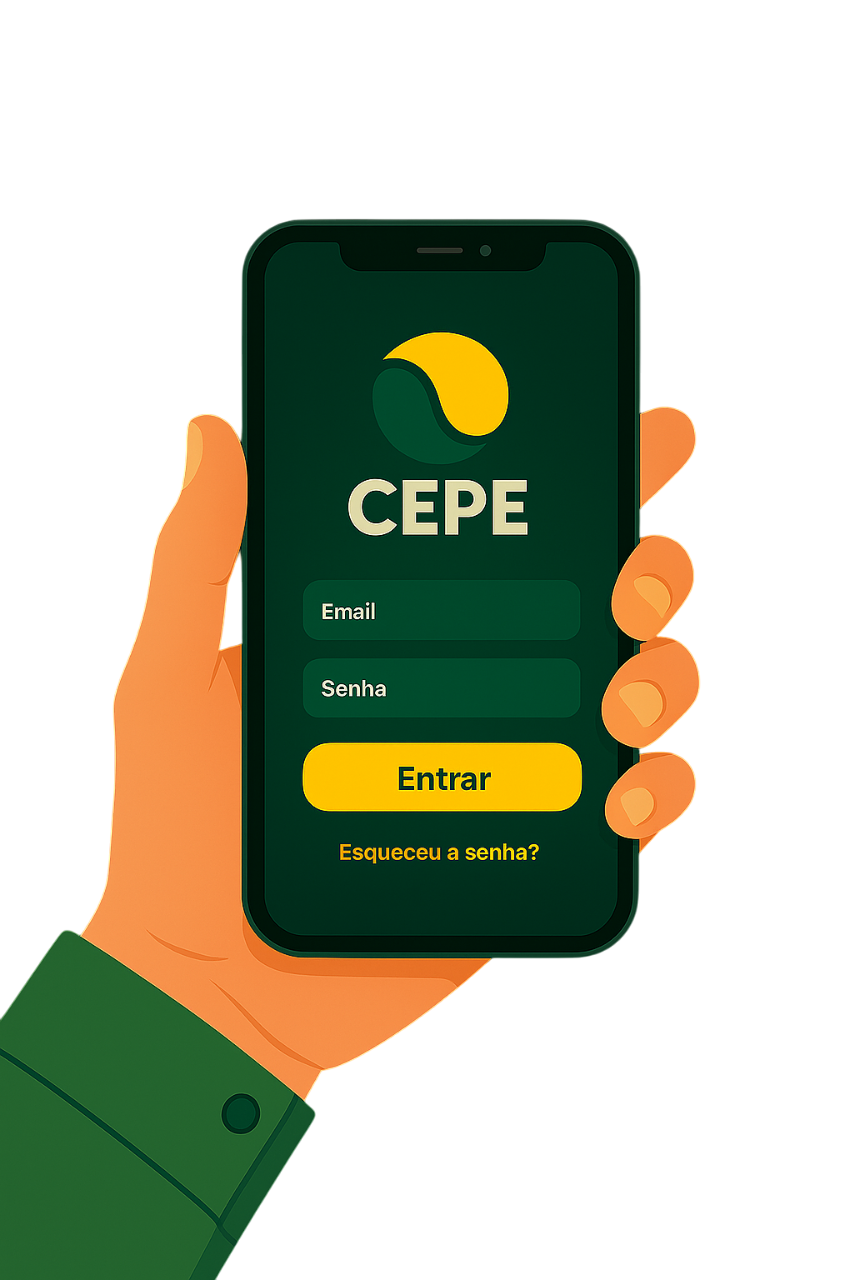
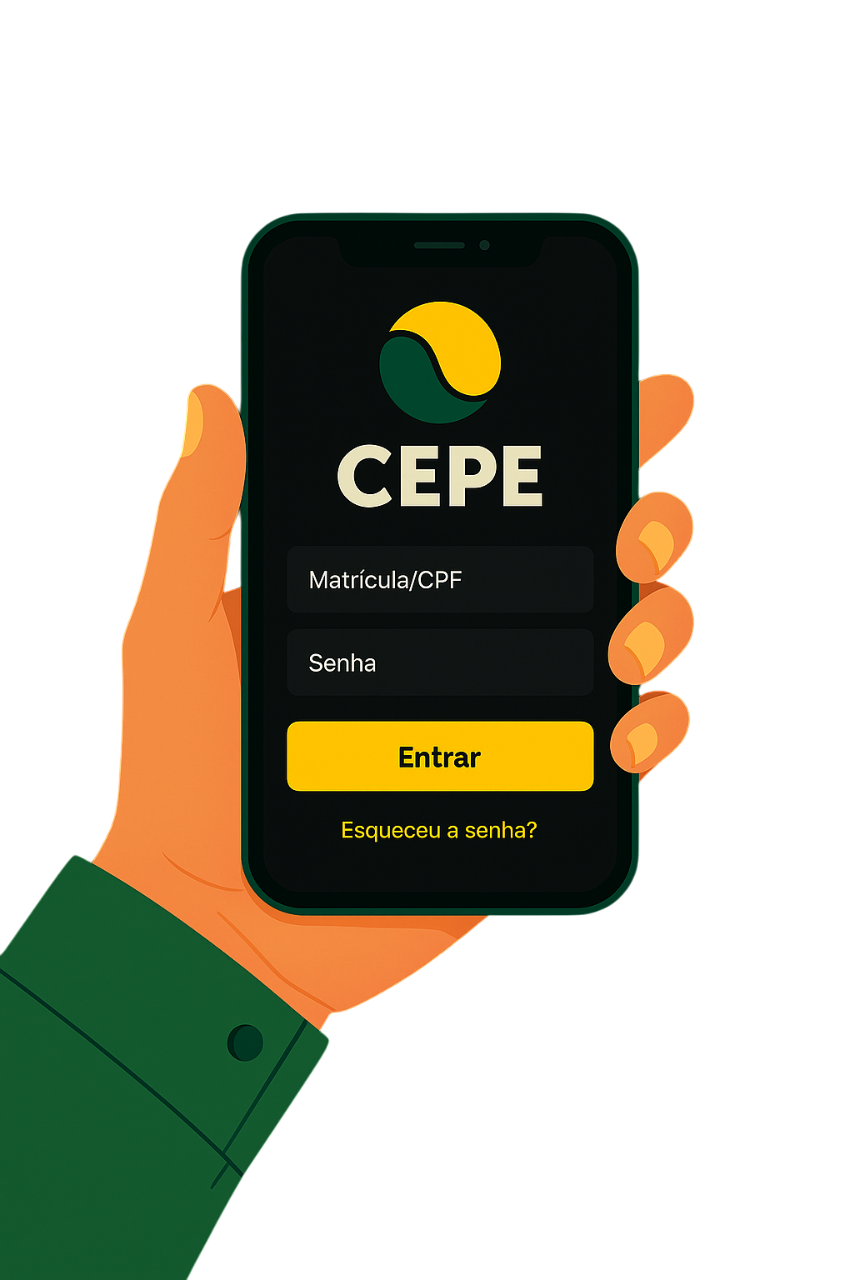
Started Login Page

diff --git a/CepeRioApp/CepeRioApp/Views/OnBoardingView.xaml b/CepeRioApp/CepeRioApp/Views/OnBoardingView.xaml
@@ -8,18 +8,29 @@
     xmlns:viewmodel="clr-namespace:CepeRioApp.ViewModels"
     Title="OnBoardingView"
     x:DataType="viewmodel:OnBoardingViewModel"
-    BackgroundColor="#1e1e1e">
+    BackgroundColor="#1e1e1e"
+    Shell.NavBarIsVisible="False">
 
     <ContentPage.Behaviors>
         <toolkit:StatusBarBehavior StatusBarColor="#080808" />
     </ContentPage.Behaviors>
 
     <Grid RowDefinitions="*, 180">
-        <Path Fill="#151515">
-            <Path.Data>
-                <RoundRectangleGeometry CornerRadius="0, 0, 130, 130" Rect="0, 0, 400, 400" />
-            </Path.Data>
-        </Path>
+        <Border
+            Grid.ColumnSpan="2"
+            BackgroundColor="#151515"
+            HeightRequest="380"
+            Stroke="Transparent"
+            StrokeShape="RoundRectangle 0, 0, 110, 110"
+            VerticalOptions="Start">
+
+            <!--<Border.Background>
+                <LinearGradientBrush StartPoint="1, 0" EndPoint="0, 1">
+                    <GradientStop Offset="0.1" Color="#fcc615" />
+                    <GradientStop Offset="3.0" Color="#006f5d" />
+                </LinearGradientBrush>
+            </Border.Background>-->
+        </Border>
 
         <Grid
             ColumnDefinitions="*, *"
@@ -43,7 +54,9 @@
         </Grid>
 
         <CarouselView
-            x:Name="myCarousel"
+            x:Name="OnBoardingCarousel"
+            PositionChanged="OnBoardingCarousel_PositionChanged"
+            HorizontalScrollBarVisibility="Never"
             IndicatorView="indicatorView"
             ItemsSource="{Binding OnBoardingContents}"
             Loop="False">
@@ -51,7 +64,7 @@
                 <DataTemplate x:DataType="model:OnBoardingContent">
                     <Grid
                         Padding="5"
-                        RowDefinitions="400, Auto, Auto"
+                        RowDefinitions="400, Auto, *"
                         RowSpacing="15">
 
                         <Image Aspect="AspectFit" Source="{Binding Image}" />
@@ -60,18 +73,20 @@
                             Grid.Row="1"
                             FontAttributes="Bold"
                             FontFamily="MainFont"
-                            FontSize="30"
+                            FontSize="32"
                             HorizontalTextAlignment="Center"
                             Text="{Binding Title}"
-                            TextColor="White" />
+                            TextColor="White"
+                            VerticalOptions="Center" />
 
                         <Label
                             Grid.Row="2"
                             FontFamily="MainFont"
-                            FontSize="17"
+                            FontSize="18"
                             HorizontalTextAlignment="Center"
                             Text="{Binding Description}"
-                            TextColor="#bbbbbb" />
+                            TextColor="#cccccc"
+                            VerticalOptions="Start" />
                     </Grid>
                 </DataTemplate>
             </CarouselView.ItemTemplate>
@@ -99,13 +114,14 @@
             </IndicatorView>
 
             <Button
+                x:Name="OnBoardingBtn"
                 BackgroundColor="#13b158"
+                Clicked="OnBoardingBtn_Clicked"
                 CornerRadius="10"
                 FontAttributes="Bold"
                 FontSize="20"
                 HeightRequest="65"
-                TextColor="{AppThemeBinding Light={StaticResource Black}, Dark={StaticResource White}}"
-                Text="Próximo" />
+                TextColor="White" />
 
             <HorizontalStackLayout HorizontalOptions="Center">
                 <Label

diff --git a/CepeRioApp/CepeRioApp/AppShell.xaml b/CepeRioApp/CepeRioApp/AppShell.xaml
@@ -4,8 +4,19 @@
     xmlns="http://schemas.microsoft.com/dotnet/2021/maui"
     xmlns:x="http://schemas.microsoft.com/winfx/2009/xaml"
     xmlns:local="clr-namespace:CepeRioApp"
-    Shell.FlyoutBehavior="Disabled"
-    Title="CepeRioApp">
+    xmlns:views="clr-namespace:CepeRioApp.Views"
+    Title="CepeRioApp"
+    Shell.FlyoutBehavior="Flyout">
+
+    <ShellContent
+        Title="OnBoarding"
+        ContentTemplate="{DataTemplate views:OnBoardingView}"
+        Route="OnBoardingView" />
+
+    <ShellContent
+        Title="Login"
+        ContentTemplate="{DataTemplate views:LoginView}"
+        Route="LoginView" />
 
     <ShellContent
         Title="Home"

diff --git a/CepeRioApp/CepeRioApp/Views/LoginView.xaml b/CepeRioApp/CepeRioApp/Views/LoginView.xaml
@@ -1,0 +1,17 @@
+<?xml version="1.0" encoding="utf-8" ?>
+<ContentPage
+    x:Class="CepeRioApp.Views.LoginView"
+    xmlns="http://schemas.microsoft.com/dotnet/2021/maui"
+    xmlns:x="http://schemas.microsoft.com/winfx/2009/xaml"
+    Title="LoginView"
+    BackgroundColor="#020b07"
+    Shell.NavBarIsVisible="False">
+    <FlexLayout
+        AlignItems="Center"
+        Direction="Column"
+        JustifyContent="SpaceEvenly">
+        <Image Source="loginpic.png" WidthRequest="400" />
+
+        <Entry Placeholder="Matrícula/CPF" />
+    </FlexLayout>
+</ContentPage>

diff --git a/CepeRioApp/CepeRioApp/App.xaml.cs b/CepeRioApp/CepeRioApp/App.xaml.cs
@@ -4,17 +4,27 @@ namespace CepeRioApp;
 
 public partial class App : Application
 {
-    public App(OnBoardingView onBoardingView)
+    private readonly AppShell _appShell;
+
+    public App(AppShell appShell)
     {
         InitializeComponent();
+        _appShell = appShell;   
 
-        if(!Preferences.ContainsKey("HasSeenOnboarding"))
-        {
-            MainPage = onBoardingView;
-        }
-        else
-        {
-            MainPage = new AppShell();
-        }
+        //if(!Preferences.ContainsKey("HasSeenOnboarding"))
+        //{
+        //    MainPage = onBoardingView;
+        //}
+        //else
+        //{
+        //    MainPage = new AppShell();
+        //}
+
+        //MainPage = new AppShell(onBoardingView);
+    }
+
+    protected override Window CreateWindow(IActivationState? activationState)
+    {
+        return new Window(new AppShell());
     }
 }

diff --git a/CepeRioApp/CepeRioApp/AppShell.xaml.cs b/CepeRioApp/CepeRioApp/AppShell.xaml.cs
@@ -1,10 +1,11 @@
-namespace CepeRioApp
+using CepeRioApp.Views;
+
+namespace CepeRioApp;
+
+public partial class AppShell : Shell
 {
-    public partial class AppShell : Shell
+    public AppShell()
     {
-        public AppShell()
-        {
-            InitializeComponent();
-        }
+        InitializeComponent();
     }
 }

diff --git a/CepeRioApp/CepeRioApp/MauiProgram.cs b/CepeRioApp/CepeRioApp/MauiProgram.cs
@@ -26,6 +26,8 @@ namespace CepeRioApp
 
             builder.Services.AddTransient<OnBoardingViewModel>();
             builder.Services.AddTransient<OnBoardingView>();
+            builder.Services.AddTransient<AppShell>();
+            builder.Services.AddTransient<App>();
 
             return builder.Build();
         }

diff --git a/CepeRioApp/CepeRioApp/Views/LoginView.xaml.cs b/CepeRioApp/CepeRioApp/Views/LoginView.xaml.cs
@@ -1,0 +1,9 @@
+namespace CepeRioApp.Views;
+
+public partial class LoginView : ContentPage
+{
+	public LoginView()
+	{
+		InitializeComponent();
+	}
+}
